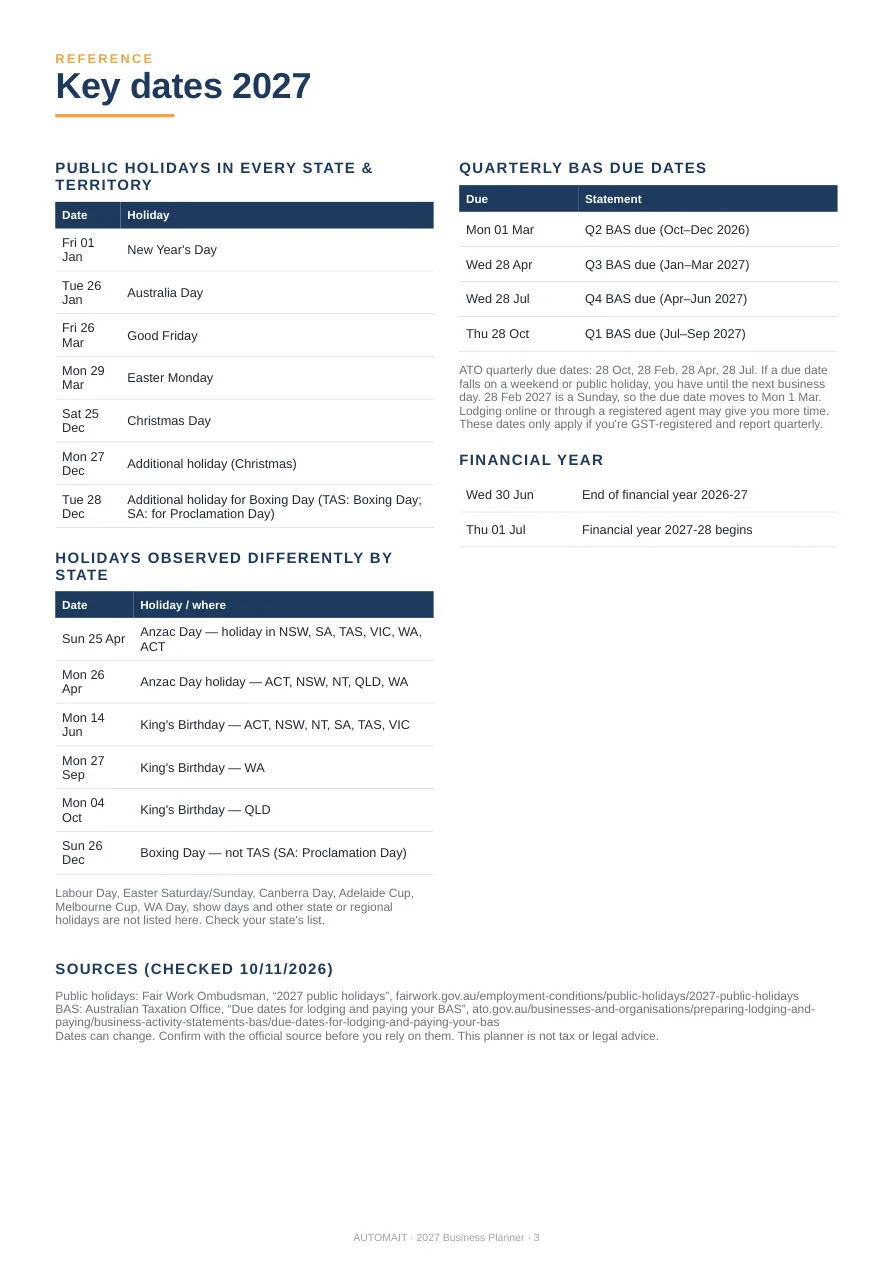
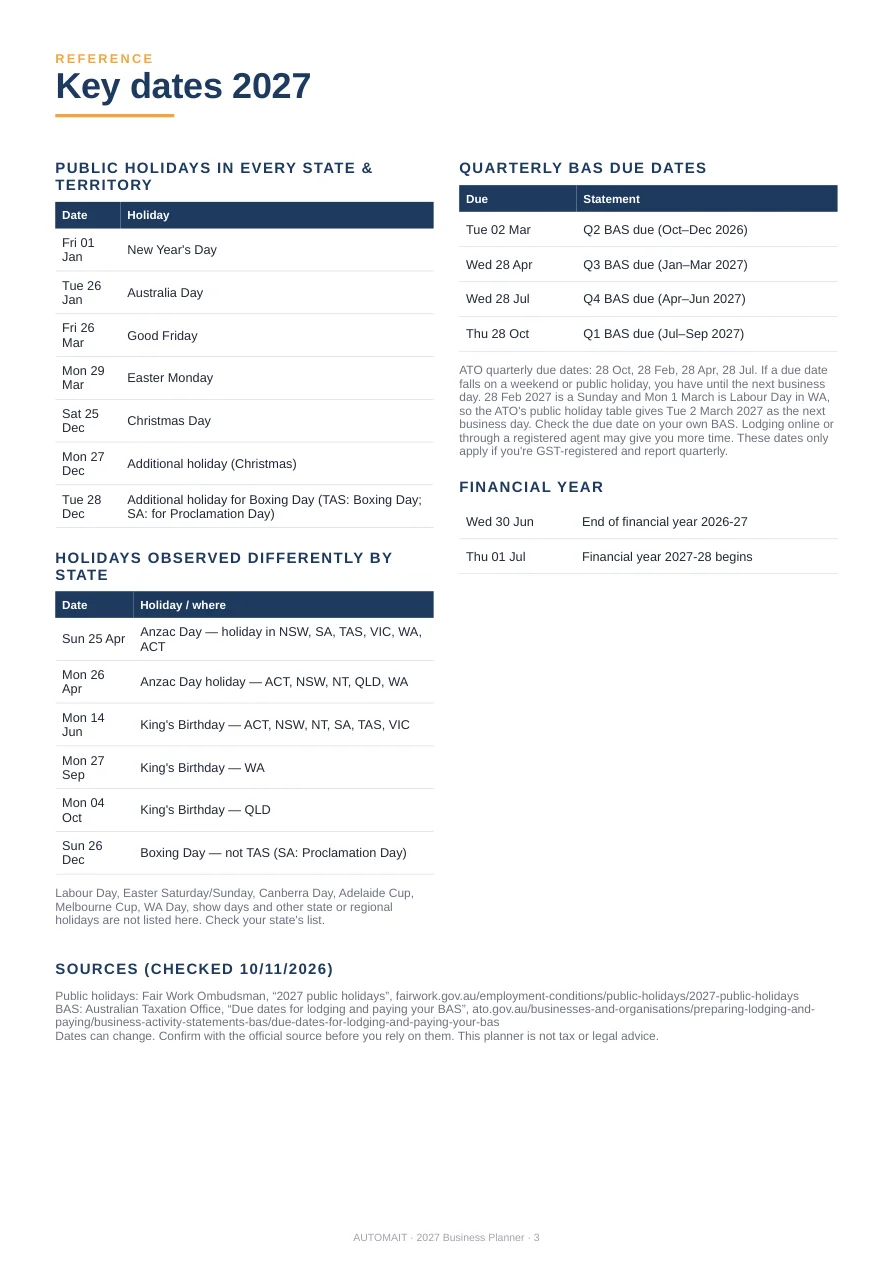
Planner BAS date fix: Tue 2 Mar 2027 (site images + blog line)

Changed region(s): [[0.514, 0.3088, 0.9373, 0.4632], [0.6349, 0.1544, 0.8466, 0.2779], [0.514, 0.1544, 0.6047, 0.1853]]

diff --git a/blog/public-holidays-2027-australia-business/index.html b/blog/public-holidays-2027-australia-business/index.html
@@ -274,7 +274,7 @@
 <p>They can. The ATO says if a due date is on a weekend or public holiday, you have until the next business day to lodge and pay. It counts a holiday that applies to the whole of any state or territory, for taxpayers in every state. For example, 28 February 2027 is a Sunday and Monday 1 March is Labour Day in WA, so the ATO's table shows Tuesday 2 March as the first business day. Check the due date on your BAS.</p>
 
 <h2>Planning the year on paper</h2>
-<p>Our <a href="https://www.etsy.com/listing/4613658410?utm_source=automait&amp;utm_medium=blog&amp;utm_campaign=public-holidays-2027">2027 Business Planner</a> (A$12 on Etsy; A$13.20 if Etsy adds GST at checkout) is a 34-page printable A4 PDF. It has the public holidays observed in every state and territory and the quarterly BAS due dates already marked, and shows where Anzac Day, King's Birthday and Boxing Day differ by state. It marks the December quarter BAS on Monday 1 March; the ATO's table allows until Tuesday 2 March, as explained above. It doesn't mark Labour Day, show days or other state and regional holidays, so add yours from the lists above. Other templates are in the <a href="https://automait.au/shop/">AUTOMAIT shop</a>.</p>
+<p>Our <a href="https://www.etsy.com/listing/4613658410?utm_source=automait&amp;utm_medium=blog&amp;utm_campaign=public-holidays-2027">2027 Business Planner</a> (A$12 on Etsy; A$13.20 if Etsy adds GST at checkout) is a 34-page printable A4 PDF. It has the public holidays observed in every state and territory and the quarterly BAS due dates already marked, and shows where Anzac Day, King's Birthday and Boxing Day differ by state. It marks the December quarter BAS on Tuesday 2 March, per the ATO's table. It doesn't mark Labour Day, show days or other state and regional holidays, so add yours from the lists above. Other templates are in the <a href="https://automait.au/shop/">AUTOMAIT shop</a>.</p>
 <p><em>Written by AUTOMAIT, a small Australian business (a sole-trader founder working with an AI operator), using AI tools. General information only, not legal, tax or workplace advice; check your award, the Fair Work Ombudsman or a registered tax or BAS agent for your situation. Dates checked against the linked Fair Work Ombudsman and ATO pages on 11/11/2026. ABN 82 801 716 831.</em></p>
 
 <hr />
